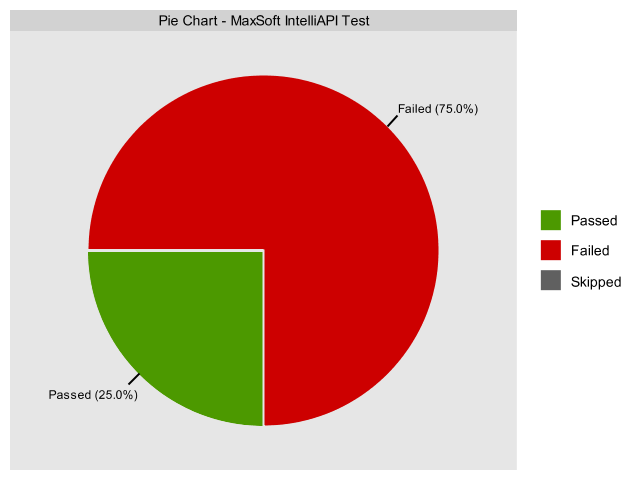
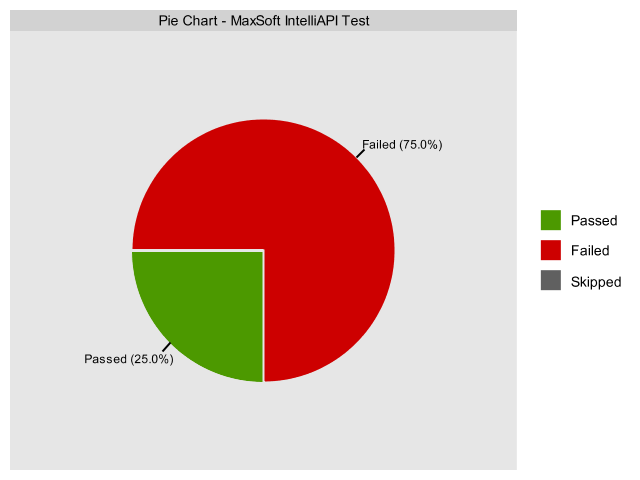
Email report modifications

Changed region(s): [[0.125, 0.1562, 0.75, 0.9062], [0.0625, 0.8125, 0.2188, 0.8438]]

diff --git a/src/main/java/com/maxsoft/intelliapi/util/JsonReader.java b/src/main/java/com/maxsoft/intelliapi/util/JsonReader.java
@@ -12,6 +12,7 @@ import java.io.*;
 import java.nio.charset.Charset;
 import java.nio.file.Files;
 import java.nio.file.Paths;
+import java.text.DecimalFormat;
 import java.util.Properties;
 
 
@@ -147,18 +148,20 @@ public class JsonReader {
             String environment = JsonPath.read(responseString, "$.environment").toString();
             String executionTime = JsonPath.read(responseString, "$.executionTime").toString();
             String executionStatus = JsonPath.read(responseString, "$.executionStatus").toString();
-            String passedScenarioCount = JsonPath.read(responseString, "$.passedScenariosCount").toString();
-            String failedScenarioCount = JsonPath.read(responseString, "$.failedScenariosCount").toString();
-            String skippedScenarioCount = JsonPath.read(responseString, "$.skippedScenariosCount").toString();
-            String passedSpecsCount = JsonPath.read(responseString, "$.passedSpecsCount").toString();
-            String failedSpecsCount = JsonPath.read(responseString, "$.failedSpecsCount").toString();
-            String skippedSpecsCount = JsonPath.read(responseString, "$.skippedSpecsCount").toString();
-            String successRate = String.valueOf(Integer.valueOf(passedScenarioCount) * 100 /
-                    (Integer.valueOf(passedScenarioCount) + Integer.valueOf(failedScenarioCount) + Integer.valueOf(skippedScenarioCount)))
-                    + "%";
-            String failRate = String.valueOf(Integer.valueOf(failedScenarioCount) * 100 /
-                    (Integer.valueOf(passedScenarioCount) + Integer.valueOf(failedScenarioCount) + Integer.valueOf(skippedScenarioCount)))
-                    + "%";
+
+            int passedScenariosCount = Integer.valueOf(JsonPath.read(responseString, "$.passedScenariosCount").toString());
+            int failedScenariosCount = Integer.valueOf(JsonPath.read(responseString, "$.failedScenariosCount").toString());
+            int skippedScenariosCount = Integer.valueOf(JsonPath.read(responseString, "$.skippedScenariosCount").toString());
+            int totalScenariosCount = passedScenariosCount + failedScenariosCount + skippedScenariosCount;
+
+            int passedSpecsCount = Integer.valueOf(JsonPath.read(responseString, "$.passedSpecsCount").toString());
+            int failedSpecsCount = Integer.valueOf(JsonPath.read(responseString, "$.failedSpecsCount").toString());
+            int skippedSpecsCount = Integer.valueOf(JsonPath.read(responseString, "$.skippedSpecsCount").toString());
+            int totalSpecsCount = passedSpecsCount + failedSpecsCount + skippedSpecsCount;
+
+            DecimalFormat df = new DecimalFormat(".##");
+            String successRate = df.format((double) passedScenariosCount * 100/ totalScenariosCount) + "%";
+            String failRate = df.format((double) failedScenariosCount * 100/ totalScenariosCount) + "%";
 
             String executionResults = "<img src=\"cid:image\" alt=\"Pie Chart For Test Execution Results\" align=\"left\"> <br /><br /><br />" +
                     "<table style=\"width:68%; text-align:left\" border=\"0\">" +
@@ -170,10 +173,12 @@ public class JsonReader {
                     "<tr><td><b>" + "Success Rate </td>" + "<td>" + successRate + "<td></tr>" +
                     "<tr><td><b>" + "Fail Rate </td>" + "<td>" + failRate + "<td></tr><br />" +
                     "<tr><td><b><u>" + "Scenario Information </td></tr>" +
-                    "<tr><td><b>" + "Passed Scenario Count </td>" + "<td>" + passedScenarioCount + "<td></tr>" +
-                    "<tr><td><b>" + "Failed Scenario Count </td>" + "<td>" + failedScenarioCount + "<td></tr>" +
-                    "<tr><td><b>" + "Skipped Scenario Count </td>" + "<td>" + skippedScenarioCount + "<td></tr><br />" +
+                    "<tr><td><b>" + "Total Scenarios Count </td>" + "<td>" + totalScenariosCount + "<td></tr>" +
+                    "<tr><td><b>" + "Passed Scenarios Count </td>" + "<td>" + passedScenariosCount + "<td></tr>" +
+                    "<tr><td><b>" + "Failed Scenarios Count </td>" + "<td>" + failedScenariosCount + "<td></tr>" +
+                    "<tr><td><b>" + "Skipped Scenarios Count </td>" + "<td>" + skippedScenariosCount + "<td></tr><br />" +
                     "<tr><td><b><u>" + "Specification Information </td></tr>" +
+                    "<tr><td><b>" + "Total Specs Count </td>" + "<td>" + totalSpecsCount + "<td></tr>" +
                     "<tr><td><b>" + "Passed Specs Count </td>" + "<td>" + passedSpecsCount + "<td></tr>" +
                     "<tr><td><b>" + "Failed Specs Count </td>" + "<td>" + failedSpecsCount + "<td></tr>" +
                     "<tr><td><b>" + "Skipped Specs Count </td>" + "<td>" + skippedSpecsCount + "<td></tr>" ;

diff --git a/src/main/java/com/maxsoft/intelliapi/util/Chart.java b/src/main/java/com/maxsoft/intelliapi/util/Chart.java
@@ -68,7 +68,7 @@ public class Chart {
         chart.getStyler().setLegendVisible(true);
         chart.getStyler().setAnnotationType(PieStyler.AnnotationType.LabelAndPercentage);
         chart.getStyler().setAnnotationDistance(1.15);
-        chart.getStyler().setPlotContentSize(.8);
+        chart.getStyler().setPlotContentSize(.6);
         chart.getStyler().setStartAngleInDegrees(90);
 
         // Series
